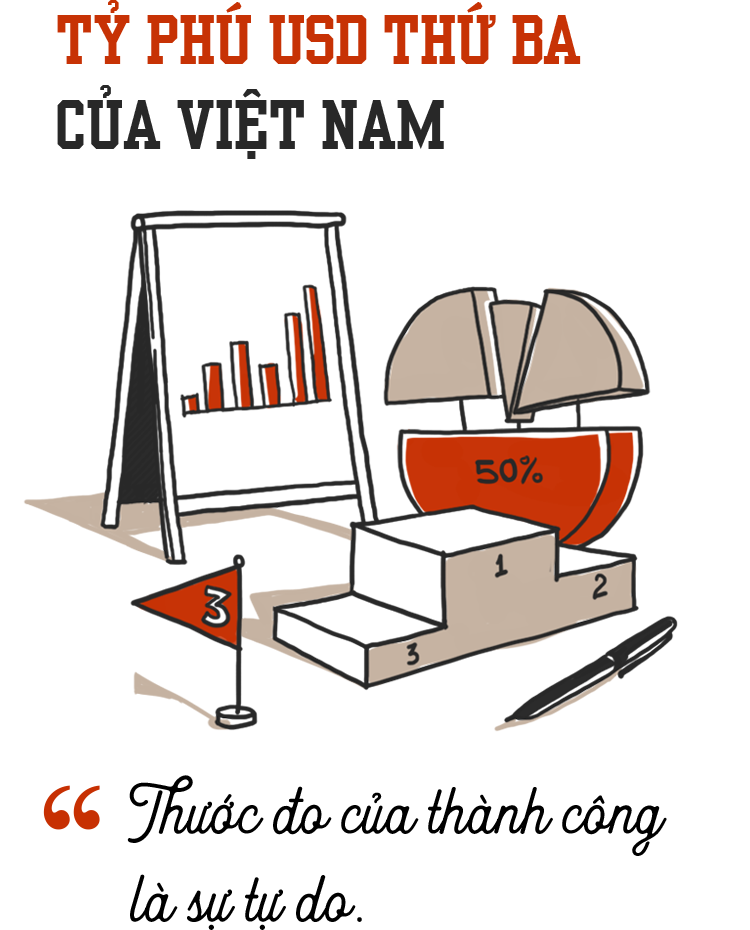
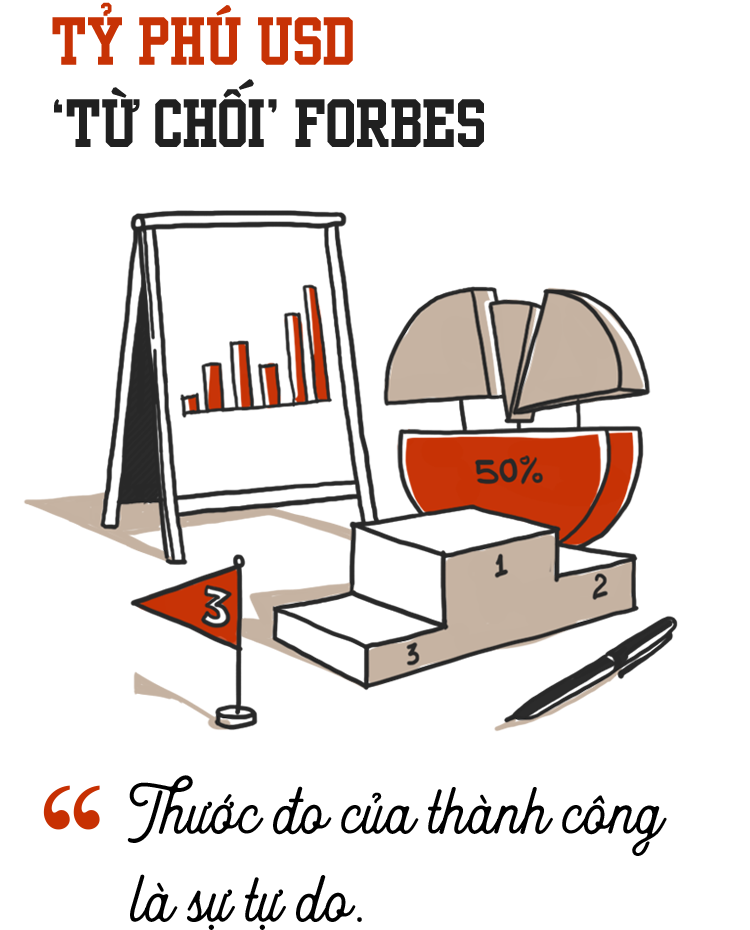
z

Changed region(s): [[0.0613, 0.0, 0.7667, 0.1871]]

diff --git a/index.html b/index.html
@@ -39,13 +39,11 @@
         <div class="mw-section">
             <img src="images/img-3.png" alt="" class="mw-img">
 
-            <p class="mw-text">Hồi phục ngoạn mục sau tác động tiêu cực do giá thịt lợn giảm mạnh đầu năm 2017, cổ phiếu MSN của Masan ghi nhận mức tăng tới 50% thị giá chỉ trong nửa năm. Tốc độ tăng thị giá này kéo theo việc nhiều cổ đông của doanh nghiệp trở thành triệu phú và tỷ phú USD trong thời gian ngắn.</p>
-
             <p class="mw-text">Là cổ đông chính của Công ty cổ phần Masan (Masan Corp) – đơn vị đang sở hữu công ty đang trực tiếp và gián tiếp nắm giữ 50% cổ phần của Masan Group – ông Nguyễn Đăng Quang được ngầm hiểu là người sở hữu nhiều cổ phần nhất.</p>
 
             <p class="mw-text">Đầu năm 2018, số cổ phần cùng tài sản riêng trong tay ông Quang được Bloomberg định giá khoảng 1,2 tỷ USD, qua đó, đưa vị này trở thành người Việt thứ ba được nêu danh trong danh sách tỷ phú thế giới của Bloomberg. Cho đến cuối năm, ông Quang vẫn là 1 trong 2 tỷ phú Đông Nam Á mới được Bloomberg gọi tên.</p>
 
-            <p class="mw-text">Tuy nhiên, ông Quang vẫn chưa được đưa vào danh sách tỷ phú của Forbes, vốn được cập nhật thường niên vào tháng 3 hàng năm.</p>
+            <p class="mw-text">Tuy nhiên, ông Quang không có tên trong danh sách tỷ phú của Forbes vốn được cập nhật thường niên vào tháng 3 hàng năm. Ông Quang “từ chối” xác nhận thông tin về tài sản cá nhân của mình với tạp chí của Mỹ, trong khi Forbes, với truyền thống thận trọng, quyết định không xếp hạng không Quang vào danh sách của mình.</p>
         </div>
 
         <div class="mw-section">
